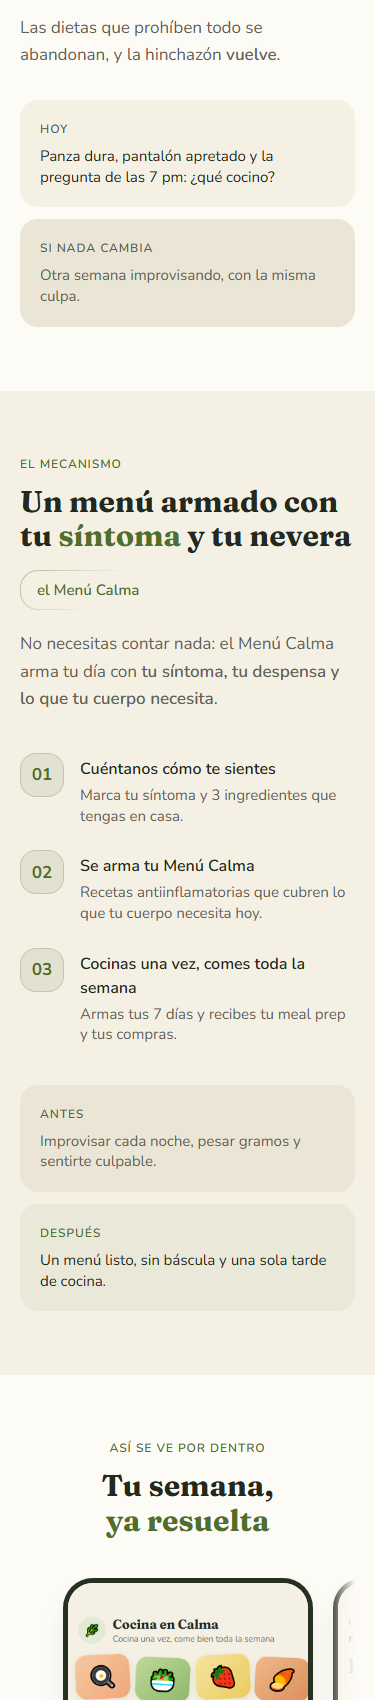
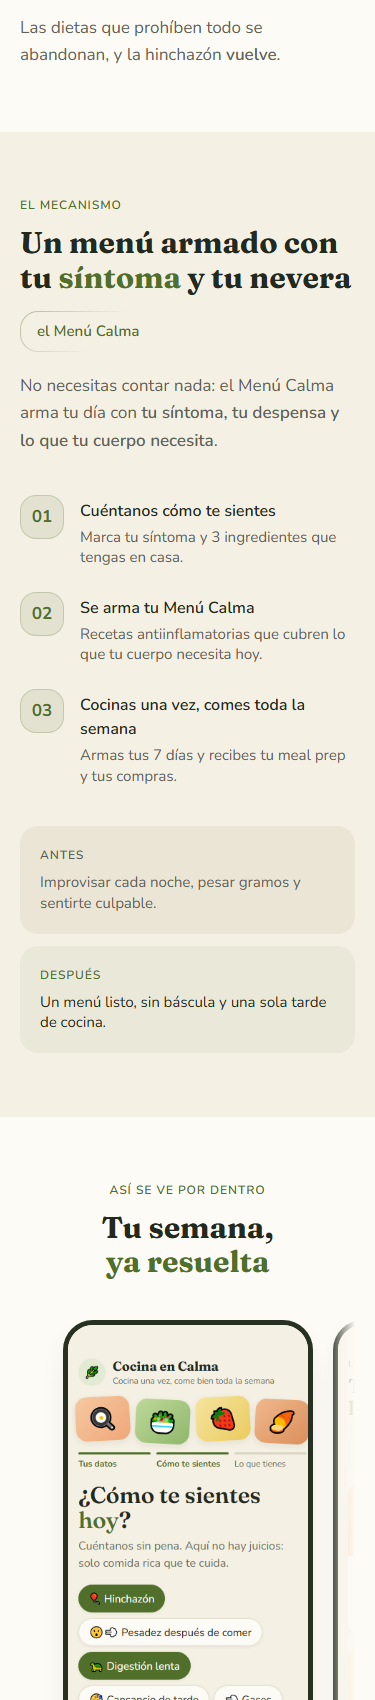
fix: ajustes de la landing según el revisor y estado

Changed region(s): [[0.0587, 0.0624, 0.9387, 0.6235], [0.0293, 0.6547, 0.968, 1.0], [0.88, 0.5924, 0.9093, 0.6235]]

diff --git a/app/page.tsx b/app/page.tsx
@@ -18,7 +18,7 @@ import { StickyCtaMobile } from '@/components/landing/ui';
 
 const CTA_HREF = '/onboarding';
 const CTA_LABEL = 'Ver mi menú de hoy gratis';
-const CTA_OFERTA = 'Quiero mi Menú Calma';
+const CTA_OFERTA = 'Ver mi menú de hoy gratis';
 
 export default function Landing() {
   return (
@@ -26,7 +26,7 @@ export default function Landing() {
       <Hero
         appName="Cocina en Calma"
         h1Marked="Termina el día más [acento]ligera[/acento], sin pesar ni contar calorías"
-        subtitleMarked="Menús antiinflamatorios según tu [b]síntoma[/b] y lo que tienes en casa"
+        subtitleMarked="El Menú Calma arma tu día según tu [b]síntoma[/b] y lo que tienes en casa"
         ctaLabel={CTA_LABEL}
         ctaHref={CTA_HREF}
         socialProof={<span>Pago único de $14.99 · Garantía de 15 días</span>}
@@ -49,12 +49,6 @@ export default function Landing() {
           'Contar gramos no calma tu abdomen: solo suma [acento]culpa y ansiedad[/acento].',
           'Las dietas que prohíben todo se abandonan, y la hinchazón [b]vuelve[/b].',
         ]}
-        contraste={{
-          labelHoy: 'Hoy',
-          hoy: 'Panza dura, pantalón apretado y la pregunta de las 7 pm: ¿qué cocino?',
-          labelFuturo: 'Si nada cambia',
-          futuro: 'Otra semana improvisando, con la misma culpa.',
-        }}
       />
 
       <Solucion
@@ -96,21 +90,21 @@ export default function Landing() {
           ancla: 'Una sola consulta con nutricionista cuesta más.',
           features: [
             'Menú de cada día según tu síntoma y tu despensa',
-            'Lo que tu cuerpo necesita, calculado sin contar nada',
+            'Tus requerimientos del día, calculados con solo 6 datos',
             '60 recetas antiinflamatorias para elegir',
             'Meal prep guiado de una tarde y lista de compras',
             'Chequeo diario que ajusta tu menú de mañana',
           ],
           ctaLabel: CTA_OFERTA,
           ctaHref: CTA_HREF,
-          microcopyCta: 'Empiezas gratis con tu menú de muestra · 15 días de garantía',
+          microcopyCta: 'Pagas $14.99 solo si te quedas con tu menú · Garantía Calma de 15 días',
         }}
       />
 
       <Garantia
         nombre="la Garantía Calma de 15 días"
         condicionMarked="Si en 15 días tu Menú Calma no te convence, escribes un correo y te devolvemos [b]todo tu pago[/b]. Sin preguntas."
-        pisoLegal="Respaldada por la garantía de Hotmart"
+        pisoLegal="15 días para decidir, sin letra chica"
       />
 
       <Faq
@@ -133,8 +127,8 @@ export default function Landing() {
               'No. Es orientación nutricional general, no un servicio médico. Si tienes una condición de salud, consúltalo con tu profesional.',
           },
           {
-            pregunta: '¿Es una suscripción?',
-            respuestaMarked: 'No. Es un solo pago de $14.99, sin mensualidades ni renovaciones, con [b]15 días de garantía[/b].',
+            pregunta: '¿Es una suscripción? ¿Cómo pago?',
+            respuestaMarked: 'No. Pagas $14.99 una sola vez, con tarjeta u otros métodos según tu país. [b]Sin renovaciones[/b] y con 15 días de garantía.',
           },
           {
             pregunta: '¿Qué pasa con mis datos de salud?',
@@ -154,6 +148,7 @@ export default function Landing() {
 
       <FooterLegal
         appName="Cocina en Calma"
+        logo={<span aria-hidden="true" className="size-5 rounded-[6px] bg-[var(--accent)]" />}
         anio={2026} /* fijo: new Date() no puede evaluarse en un client component prerenderizado */
         enlaces={[
           { label: 'Privacidad', href: '/privacidad' },

diff --git a/docs/revisiones/landing-veredicto.md b/docs/revisiones/landing-veredicto.md
@@ -1,0 +1,98 @@
+# VEREDICTO revisor-visual — Landing
+Fecha: 2026-10-31 02:10
+Screenshot: docs/revisiones/landing-375.png
+Usabilidad: 30/40
+Craft: 14/20
+Copy (si vende): 15/20
+Fidelidad (si hubo referencia): FIEL
+Veredicto: NECESITA CORRECCIÓN
+
+Detalle de puntaje
+- Usabilidad (h1..h10): h1:3 h2:3 h3:3 h4:3 h5:3 h6:3 h7:3 h8:3 h9:3 h10:3. Fuentes: [render] h2, h4, h6, h8, h10; [código] h1, h3, h7 (sticky CTA de 2 estados en ui.tsx, dots tocables, FAQ con aria-expanded/aria-controls, reveal con reduced-motion). h5 y h9 son casi N/A en una landing sin formularios; se puntúan 3 por defecto.
+- Craft: jerarquía 3 · profundidad 3 · identidad 2 · movimiento 3 · encaje 3.
+- Copy: idea 3 · especificidad 2 · emoción 4 · oferta 3 · acción 3. El eje de especificidad es ≤2, así que el copy se corrige aunque el total pasara.
+- Umbrales del SO: ≥36/40 y ≥16/20. Usabilidad, craft y copy quedan por debajo.
+
+## Test de fidelidad contra la referencia (referencia-1..6, sobre todo la 5 y la 6)
+- Modo: claro cálido en ambas. Pasa.
+- Hue del acento: oliva #4F6F2B en ambas, mismo hue. Pasa.
+- Clase tipográfica display: serif suave (Fraunces semibold/bold) frente al soft serif de la referencia. Pasa. El body es Nunito, rounded sans. Pasa.
+- Radios: cards 18px y botones 16px según tokens.css, dentro de ±4px de 18-20/16. Pasa.
+- Densidad: aireada, con gutter de 20px. Pasa.
+- Sombras: sutiles, difusas y tintadas con el neutro de marca. Pasa.
+- Resultado: FIEL, 0 de 6 fallos.
+- Matiz fuera del test de 6 puntos: la referencia es fotográfica (comida real). Aquí las tarjetas del hero y los chips del mock usan emojis sobre degradados. Es el hueco visual más grande frente al contrato, aunque esté documentado como marcador.
+
+## Gate de carga cognitiva
+- 8 ítems revisados. Fallan 2: hay elementos que parecen interactivos y no hacen nada (ver hallazgo 3), y hay dos bloques de contraste redundantes (ver hallazgo 6).
+- Hay 2 fallos, por debajo del umbral crítico de 4. Sin sobrecarga crítica.
+- Problema tiene 4 cards, Oferta 5 ítems y FAQ 6 ítems. Todo está dentro de rango.
+
+## CTA héroe vivo (ui.tsx CtaButton)
+- Contraste: texto crema sobre #4F6F2B, aproximadamente 5.5:1. Pasa.
+- whileTap 0.97 y hover definidos. Pasa.
+- Nunca disabled. Pasa.
+- Alto de 52px, ancho completo en móvil. Pasa.
+- El sticky mide 48px. Pasa.
+
+## Hallazgos ordenados por severidad
+
+### ALTO
+1. **El CTA de la oferta promete compra y el destino es el onboarding gratis.**
+   - Ubicación: app/page.tsx:20 y 104-106 (`CTA_OFERTA = 'Quiero mi Menú Calma'`, `ctaHref: CTA_HREF = /onboarding`), y en el sticky de ui.tsx:~236.
+   - El usuario toca "Quiero mi Menú Calma" bajo "$14.99 pago único" y cae en un onboarding gratis. Hay dos verbos de acción (comprar y probar gratis) sobre un solo destino, y eso baja el eje de acción del copy y la heurística 4.
+   - Además, la oferta nunca explica cuándo se paga. El microcopy dice "Empiezas gratis con tu menú de muestra", y eso choca con "Un solo pago" en el título.
+   - Fix: unificar el verbo ("Ver mi menú de hoy gratis" también en la oferta, con "pagas $14.99 solo si te quedas con él" como línea explícita), o cerrar el flujo de verdad. docs/copy/landing.md decía "Quiero mi Menú Calma por $14.99", y el código ya omite el precio.
+2. **Identidad ownable débil en el primer viewport: fotos de comida a base de emojis sobre degradados.**
+   - Ubicación: public/mocks/primer-menu.png (hero, 375px, entre y≈497 y 1015), y los chips de síntoma con emoji en public/mocks/sintomas.png (carrusel).
+   - La referencia es fotografía cenital de comida real, y esa es su firma. Aquí las 4 tarjetas de comida y los chips de síntoma usan emojis. Cualquier usuario nota que son marcadores, y el checklist de conversión baja el eje 3 por "emoji como ícono".
+   - El hero no tiene textura ni tratamiento propio fuera de la palabra en acento. Es el punto que más separa esta landing de "diseñada".
+   - Fix: sustituir por fotografía real o ilustración de la serie en el mock. Mientras tanto, usar un tratamiento de ilustración consistente (no emoji del sistema) y, sin foto, no mostrar el mock a tamaño protagonista.
+3. **Elementos del mock que parecen botones reales y no hacen nada.**
+   - Ubicación: el hero (botón "Armar mi semana completa", pills y cards del mock) y el carrusel ("Atrás", "Siguiente", chips de síntoma seleccionados).
+   - Son imágenes, pero a 375px compiten con el CTA real justo debajo. El "Armar mi semana completa" es verde oliva igual que el CTA y está a unos 200px de él.
+   - El chip "el Menú Calma" (Solucion.tsx:74-78, Hairline w-fit) también parece un botón o tag interactivo.
+   - Fix: recortar el mock antes del botón interno, o desaturarlo. Presentar el chip del mecanismo como etiqueta no interactiva (sin borde de botón, o con texto "Método:").
+4. **Especificidad y prueba del copy ≤2.** Los claims tienen números pero poca prueba verificable.
+   - Ubicación: app/page.tsx:96 y 100. "Una sola consulta con nutricionista cuesta más" no lleva cifra. "60 recetas antiinflamatorias" es una cifra que no se puede verificar: la app aún no existe y no hay inventario trazado en FICHA-AVATAR ni en FICHA-MERCADO.
+   - "Lo que tu cuerpo necesita, calculado sin contar nada" (page.tsx:99) es un adjetivo vacío. "Respaldada por la garantía de Hotmart" (page.tsx:113) no está confirmado: FICHA-MERCADO marca pendiente la verificación del checkout real.
+   - No hay demo real (todo son mocks), ni credencial (la nutricionista está "por confirmar"). Sin testimonios por decisión, la prueba restante es la garantía y el precio.
+   - Fix: poner una cifra real y citable en el ancla (rango de precios de consulta, con fuente en FICHA-MERCADO). Eliminar o verificar "60 recetas" contra el contenido real. Sustituir la línea vaga por algo concreto ("tazas, puños y unidades"). Retirar la mención a Hotmart hasta confirmarla.
+
+### MEDIO
+5. **La garantía no está nombrada junto al CTA de compra.**
+   - El microcopy de la oferta dice "15 días de garantía" sin nombre (page.tsx:106). La "Garantía Calma de 15 días" aparece recién en la sección siguiente.
+   - Fix: nombrarla en el microcopy del botón ("Garantía Calma de 15 días").
+6. **Redundancia entre Agitación y Solución.**
+   - Los pares Hoy / Si nada cambia (Agitacion) y Antes / Después (Solucion) son casi el mismo contraste emocional en cajas del mismo tipo. En el render ocupan unos 560px a 375px entre las dos secciones.
+   - Las cajas ("HOY", "SI NADA CAMBIA") son tono sobre tono, casi sin separación, y pesan poco frente al resto.
+   - Fix: dejar solo uno (el de Solucion, que cierra con la tarde de cocina), o fusionarlos en una sola pieza.
+7. **El mecanismo no se nombra en el hero.**
+   - El hero habla de "Menús antiinflamatorios según tu síntoma" y "Menú Calma" aparece recién en Solucion. Eso debilita el eje 1 de copy, que pide el mecanismo bautizado en hero + solución + oferta.
+   - Fix: subtítulo del hero con el nombre, dentro de las 14 palabras.
+8. **Alineación de títulos de sección inconsistente.**
+   - Problema, Solución y FAQ van alineados a la izquierda. AppPorDentro, Oferta y Garantía van centrados. El ritmo se rompe a mitad de página.
+   - Fix: elegir una convención (izquierda para las secciones de lectura, centro solo para las de cierre) y aplicarla a las 6.
+
+### BAJO
+9. **Movimiento sin conteo ni barras que se dibujen.**
+   - El hero solo hace un fade de 300ms, sin stagger (Hero.tsx:~75). El precio "$14.99" aparece plantado, sin conteo.
+   - La barra "Cubre 100% de lo que necesitas hoy" del mock es estática por ser imagen.
+   - Las demás baselines que aplican sí están: stagger por sección con reveal (ui.tsx useReveal), whileTap, acordeón animado, dots del carrusel y sticky CTA con reduced-motion respetado en todo.
+   - Fix: stagger de 60ms en el hero y conteo del precio una vez al entrar en vista.
+10. **El cuadrado de marca del footer no coincide con el del header.**
+    - Header: olive #4F6F2B, 24px. Footer: gris `--text-tertiary`, 20px (FooterLegal.tsx:36). Es el mismo logo con dos tratamientos.
+    - Fix: usar el mismo color y tamaño, o el logo real.
+11. **FAQ sin las objeciones 5 y 7 de la ficha.**
+    - Faltan "Ya dejé gluten y lácteos y seguí inflamada" y los métodos de pago LATAM (OXXO, SPEI, PSE, según FICHA-MERCADO).
+    - No frena el veredicto, pero la objeción de pago es la que más pesa en el segmento.
+12. **El kicker del hero y el label "LISTO EN MENOS DE 5 MINUTOS" del mock** son microcopy de 10-12px de bajo contraste sobre crema. Aceptable en un mock, pero a 375px roza el límite de lectura.
+
+## Notas honestas de lo que sí funciona (para no romperlo al corregir)
+- El H1 lleva bold completo y una sola palabra en acento ("ligera"), sin artículos. Pasa el ancla de énfasis.
+- El copy del dolor usa los verbatims del avatar casi literales: "panza de 5 meses", pantalón que aprieta, la pregunta de las 7 pm, culpa. Es el eje más fuerte.
+- No hay claims de ingresos ni de curación. El FAQ lleva el aviso de que no reemplaza al médico.
+- El precio tiene anclaje ($14.99 y "menos de $0.05 al día"; 14.99/365 ≈ $0.041, correcto).
+- Hairlines: 3 usos (oferta, garantía y chip), dentro del máximo. Checks y chips son SVG, sin emojis, salvo en el contenido de los mocks.
+- Alternancia base/elevado distinguible entre secciones. El CTA final invertido (oscuro) da un cierre claro.
+- Accesibilidad: FAQ con button + aria-expanded + aria-controls, dots tocables de 24px con aria-label y aria-current, y targets ≥48px.

diff --git a/docs/copy/landing.md b/docs/copy/landing.md
@@ -4,7 +4,7 @@ Nivel de consciencia del tráfico principal (TikTok/Reels orgánico): **2 — co
 
 ## 1. Hero  (dolor #1 + razón #1 "escapar del dolor"; razón #2 "evitar esfuerzo")
 - H1: Termina el día más [acento]ligera[/acento], sin pesar ni contar calorías  _(10 palabras)_
-- Subtítulo: Menús antiinflamatorios según tu [b]síntoma[/b] y lo que tienes en casa  _(12)_
+- Subtítulo: El Menú Calma arma tu día según tu [b]síntoma[/b] y lo que tienes en casa  _(14)_
 - CTA: Ver mi menú de hoy gratis
 - Prueba social (solo real): Pago único de $14.99 · Garantía de 15 días
 - Visual sugerido: captura del "Tu primer menú de hoy" con 4 comidas y barra "100% cubierto"
@@ -19,8 +19,7 @@ Nivel de consciencia del tráfico principal (TikTok/Reels orgánico): **2 — co
 - Decides qué comer [b]3 o 4 veces al día[/b], todos los días.
 - Contar gramos no calma tu abdomen: solo suma [acento]culpa y ansiedad[/acento].
 - Las dietas que prohíben todo se abandonan, y la hinchazón [b]vuelve[/b].
-- Contraste — Hoy: Panza dura, pantalón apretado y la pregunta de las 7 pm: ¿qué cocino?
-- Contraste — Si nada cambia: Otra semana improvisando, con la misma culpa.
+- (Sin bloque de contraste: ya lo cubre el Antes/Después de la solución — hallazgo del revisor)
 
 ## 4. Solución  (mecanismo: el Menú Calma — razón #3 "ahorrar tiempo")
 - Título: Un menú armado con tu [acento]síntoma[/acento] y tu nevera
@@ -41,23 +40,23 @@ Nivel de consciencia del tráfico principal (TikTok/Reels orgánico): **2 — co
 - Ancla externa: Una sola consulta con nutricionista cuesta más.
 - Incluye:
   - Menú de cada día según tu síntoma y tu despensa
-  - Lo que tu cuerpo necesita, calculado sin contar nada
+  - Tus requerimientos del día, calculados con solo 6 datos
   - 60 recetas antiinflamatorias para elegir
   - Meal prep guiado de una tarde y lista de compras
   - Chequeo diario que ajusta tu menú de mañana
-- CTA: Quiero mi Menú Calma por $14.99
+- CTA: Ver mi menú de hoy gratis (mismo verbo que el hero; microcopy: Pagas $14.99 solo si te quedas con tu menú · Garantía Calma de 15 días)
 
 ## 7. Garantía
 - Nombre: la Garantía Calma de 15 días
 - Condición: Si en 15 días tu Menú Calma no te convence, escribes un correo y te devolvemos [b]todo tu pago[/b]. Sin preguntas.
-- Piso: Respaldada por la garantía de Hotmart
+- Piso: 15 días para decidir, sin letra chica
 
 ## 8. FAQ  (objeciones de FICHA-AVATAR)
 1. ¿Tengo que pesar la comida o contar calorías? — No. Usamos tazas, puños y unidades. La app hace las cuentas: [b]tú solo eliges qué comer[/b].
 2. ¿Las recetas llevan ingredientes raros o caros? — No. Todo se consigue en cualquier supermercado, y el menú se arma con [b]lo que ya tienes[/b].
 3. ¿Y si no tengo tiempo para cocinar el domingo? — Hay Menús Express de 10 minutos. Y cocinar una vez [b]te ahorra cocinar cada noche[/b].
 4. ¿Reemplaza a mi médico o nutricionista? — No. Es orientación nutricional general, no un servicio médico. Si tienes una condición de salud, consúltalo con tu profesional.
-5. ¿Es una suscripción? — No. Es un solo pago de $14.99, sin mensualidades ni renovaciones, con [b]15 días de garantía[/b].
+5. ¿Es una suscripción? ¿Cómo pago? — No. Pagas $14.99 una sola vez, con tarjeta u otros métodos según tu país. [b]Sin renovaciones[/b] y con 15 días de garantía.
 6. ¿Qué pasa con mis datos de salud? — Solo los usamos para armar tu menú. No los vendemos y puedes [b]borrar tu cuenta[/b] cuando quieras.
 
 ## 9. CTA final

diff --git a/ESTADO.md b/ESTADO.md
@@ -70,9 +70,11 @@ Big Idea: "Desinflama tu abdomen y recupera tu ropa favorita sin volver a pesar 
 - Loop completo gatillo→acción→recompensa→inversión + D1-D7: pendiente
 
 ## Secuencia maestra de construcción (NO saltar)
-- Estado: pre-Landing (fichas pendientes)
+- Estado: Landing en revisión (1ª revisión del revisor-visual: NECESITA CORRECCIÓN 30/40 · 14/20 · 15/20; ajustes aplicados, 2ª revisión en curso)
 - Ruta: `/` → `/onboarding` → `/paywall` → `/login` → `/app`
-- Landing / Onboarding / Paywall / Login / App interna / Servicios externos: pendiente
+- Landing: construida en Next 16 desde el kit (app/page.tsx, components/landing/), CTA → /onboarding (modelo 2) · Onboarding / Paywall / Login / App interna / Servicios externos: pendiente
+- Proyecto de código en la raíz (Next 16.4 + Tailwind 4 + motion + lucide). Servidor local de revisión: npx next start -p 3100
+- DESVIACIONES del kit (justificadas): (1) OfertaUnica.tsx — el kit trae Oferta anual/mensual con trial; la decisión del usuario es pago único $14.99 sin trial. (2) FooterLegal con soporteEmail opcional — aún no hay correo de la empresa. (3) CtaFinal usa --accent-on-dark para que el acento se lea sobre el bloque invertido. (4) FooterLegal con anio fijo 2026 (new Date() no compila en client component prerenderizado).
 
 ## Puertas de etapa
 - Todas: no iniciadas. Servicios externos: bloqueados.
@@ -83,6 +85,8 @@ Big Idea: "Desinflama tu abdomen y recupera tu ropa favorita sin volver a pesar 
 - NO construir: red social/foro, pedidos a supermercados, escáner de códigos, chat con nutricionista en vivo, seguimiento de agua
 
 ## Problemas conocidos ⚠
+- veredicto landing: ver docs/revisiones/landing-veredicto.md. Hallazgos abiertos: fotos de comida reales (hoy son emojis sobre degradado en hero y carrusel), cifra real para el ancla de la oferta (consulta de nutricionista), capturas reales de la app al cerrarla, chip del mecanismo parece botón.
+- audit-conversion.sh: 13 críticos mayormente falsos positivos por escanear comentarios/strings del propio kit (voseo "animate", hairlines y gradientes que sí existen en ui.tsx/Hero.tsx); se revisan con el revisor-visual.
 - Legal (47): borradores en docs/legal/ (política de privacidad + consentimiento y deslinde). Responsable: Conexión Digital, Ecuador (LOPDP; autoridad: Superintendencia de Protección de Datos Personales — verificar con abogado). Pendientes: correo de contacto propio, ciudad/RUC, términos y política de reembolso, pantalla de consentimiento en la app, revisión de abogado local. Datos de salud = sensibles.
 - FICHA-MODELO: creada en BORRADOR (modelo: Fitia, eje: ángulo síntoma). Secciones 2-6 con NO ENCONTRADO: completar con investigación antes de la landing.
 - veredicto paywall: no aplica todavía — el paywall NO está construido (etapa no iniciada); el veredicto del revisor-visual se genera al construirlo.
